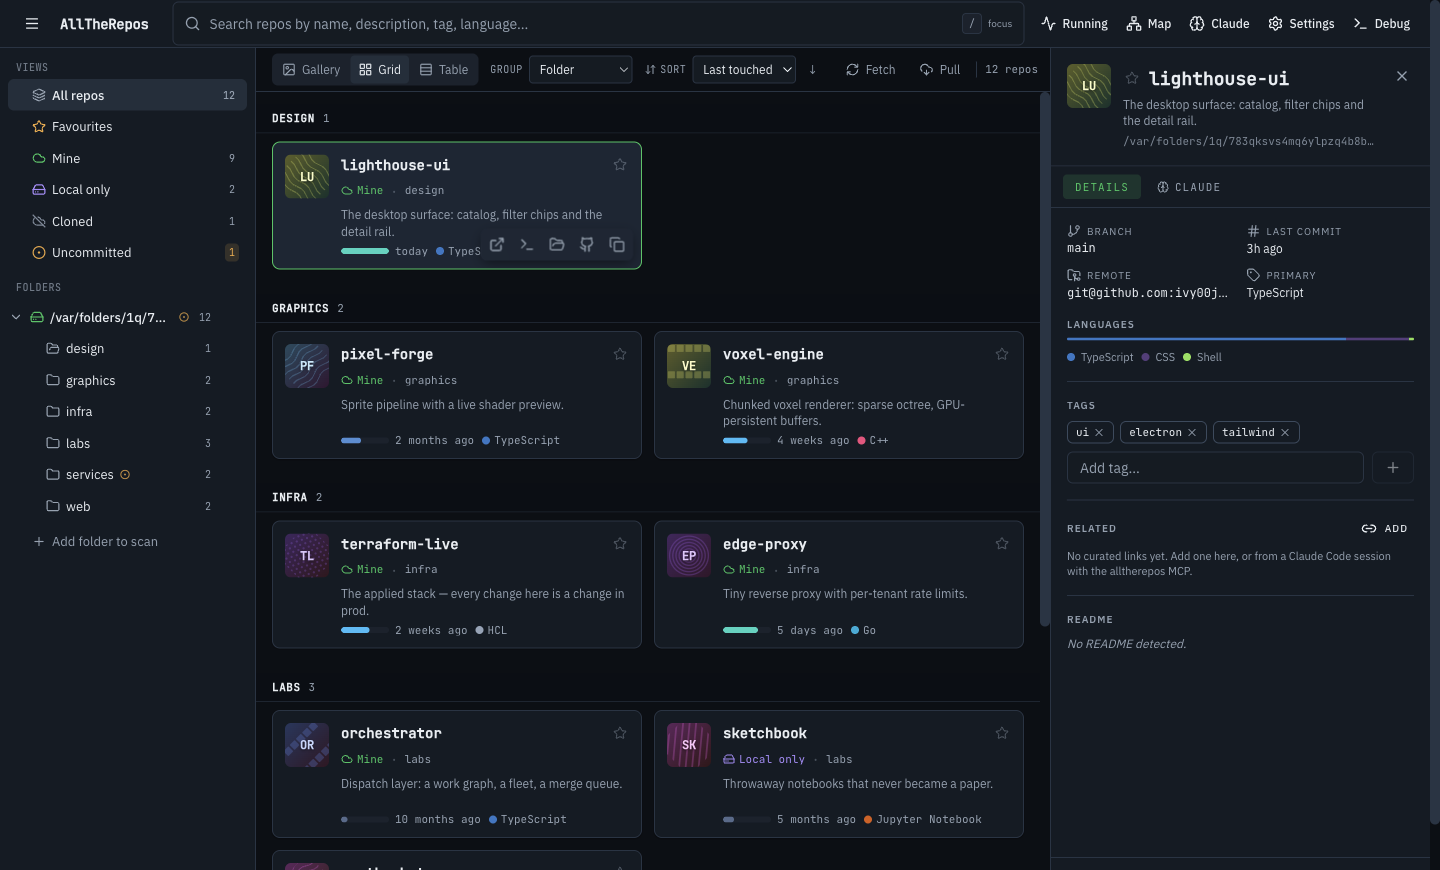
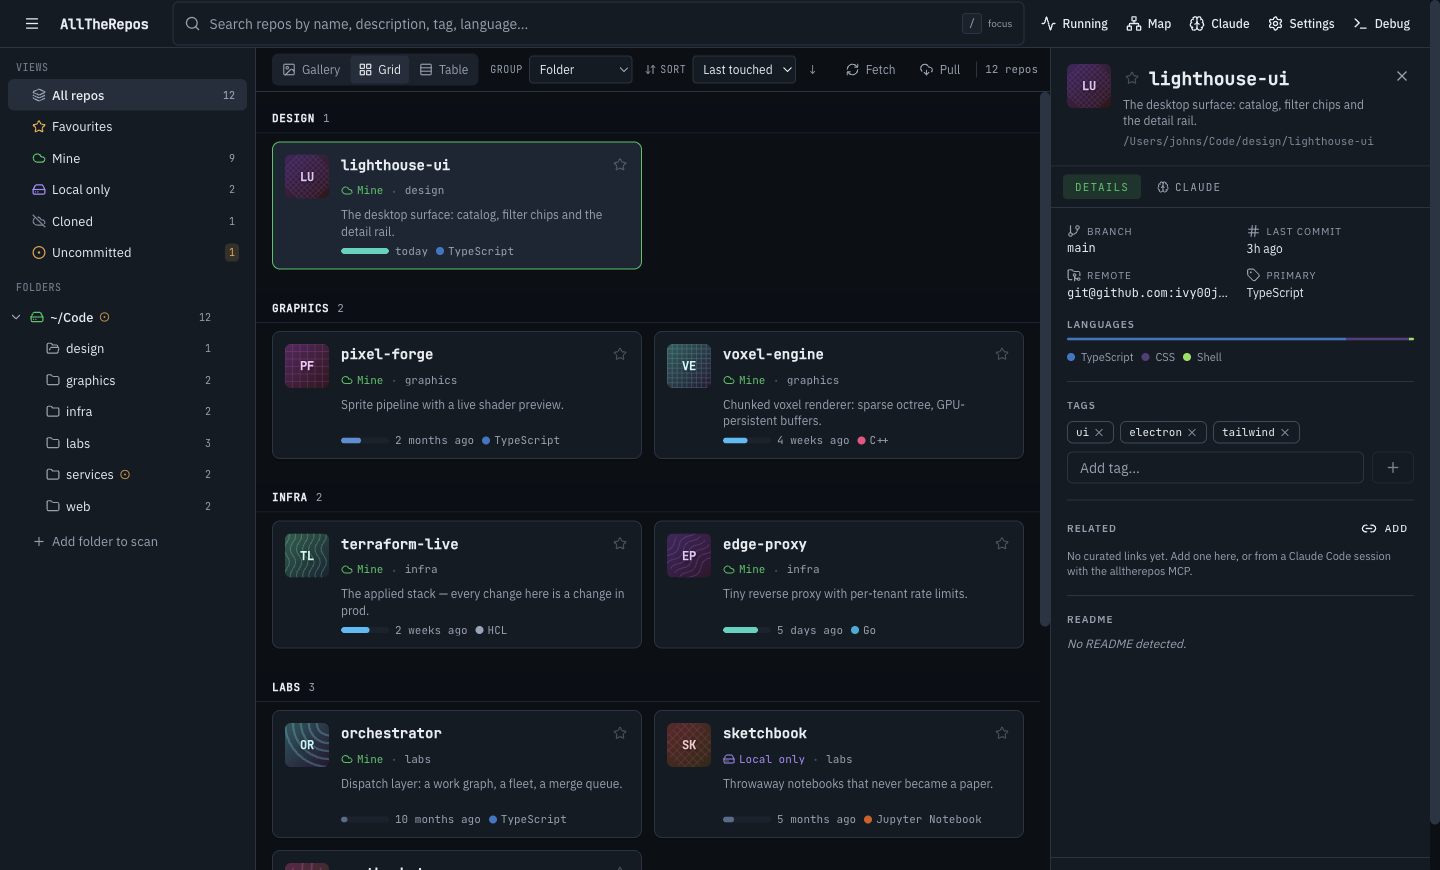
docs: keep the README screenshots from looking like a temp machine
The first captures showed `/var/folders/.../atr-readme-shots-XXXX` as the scan
root in the folder rail and in Settings, because the demo library was written
to the OS temp directory and `tildify` only rewrites `/Users/<you>`. The demo
library now lives at `~/Code` — refused if that already exists, removed again
afterwards — so the screenshots read as a real machine.

Also: the command palette shot no longer types a query (it lists commands, so a
query narrowed it to two rows that meant nothing), and the script probes the
native ABI up front, because an app that dies loading better-sqlite3 surfaces
only as "target page has been closed".

Generated with Codebuff 🤖

diff --git a/tests/unit/scripts/make-readme-shots.spec.ts b/tests/unit/scripts/make-readme-shots.spec.ts
@@ -57,7 +57,8 @@ interface ShotsModule {
   demoRows(root: string): DemoRow[];
 }
 
-const ROOT = "/tmp/atr-readme-shots-fixture/Developer";
+/** Stands in for the script's default `~/Code`, without touching `$HOME`. */
+const ROOT = "/Users/example/Code";
 
 let rows: DemoRow[];
 

diff --git a/README.md b/README.md
@@ -82,9 +82,9 @@ pnpm electron:dev                  # rebuilds natives, then launches the app
 
 ### First run, in the app
 
-1. **Add a scan folder** (rail → *Add folder to scan*) — a directory that contains repositories, e.g. `~/Projects`.
+1. **Add a scan folder** (rail → *Add folder to scan*) — a directory that contains repositories, e.g. `~/Code`.
 2. Press **Scan**. The scanner walks the tree in a worker thread and writes each repository into the catalog.
-3. `⌘K` opens the command palette; `⌘F` or the top-bar field searches the catalog.
+3. Use the top-bar field to search, and `⌘K` to run a command.
 
 ---
 
@@ -92,11 +92,11 @@ pnpm electron:dev                  # rebuilds natives, then launches the app
 
 <div align="center">
 
-<img src="docs/images/command-palette.png" alt="The in-app command palette, opened with ⌘K, searching the catalog" width="900" />
+<img src="docs/images/command-palette.png" alt="The ⌘K command palette over the catalog" width="900" />
 
 </div>
 
-Everything is keyboard-reachable: **`⌘K`** for the command palette, **`g s`** to jump to settings, **`j`/`k`** to move through the grid, and a menu-bar spotlight window for a repository search without raising the main window.
+Everything is keyboard-reachable: **`⌘K`** for the command palette, **`g s`** to jump to settings, **`j`/`k`** to move through the grid, **Enter** to open the selected repository — plus a menu-bar presence and a spotlight window for a search that does not raise the main window.
 
 <div align="center">
 
@@ -106,7 +106,7 @@ Everything is keyboard-reachable: **`⌘K`** for the command palette, **`g s`** 
 
 Settings owns the scan roots and ignore globs, the embedding provider, the editor to open repos in, your git identities, and the *Check for updates* control that reads the public update feed.
 
-> The screenshots above are generated, not staged: `node scripts/make-readme-shots.mjs` launches the real app against a throwaway profile seeded with a **demo library**, and refuses to write the files if any repository outside that demo data appears on screen — these images are published, and this repository is not.
+> The screenshots above are generated, not staged: `node scripts/make-readme-shots.mjs` launches the real app against a throwaway profile seeded with a **demo library**, and refuses to write the files if any repository outside that demo data appears on screen — these images are published, and this repository is not. It checks the native ABI first, because the app exiting for that reason looks like nothing at all.
 
 ---
 
